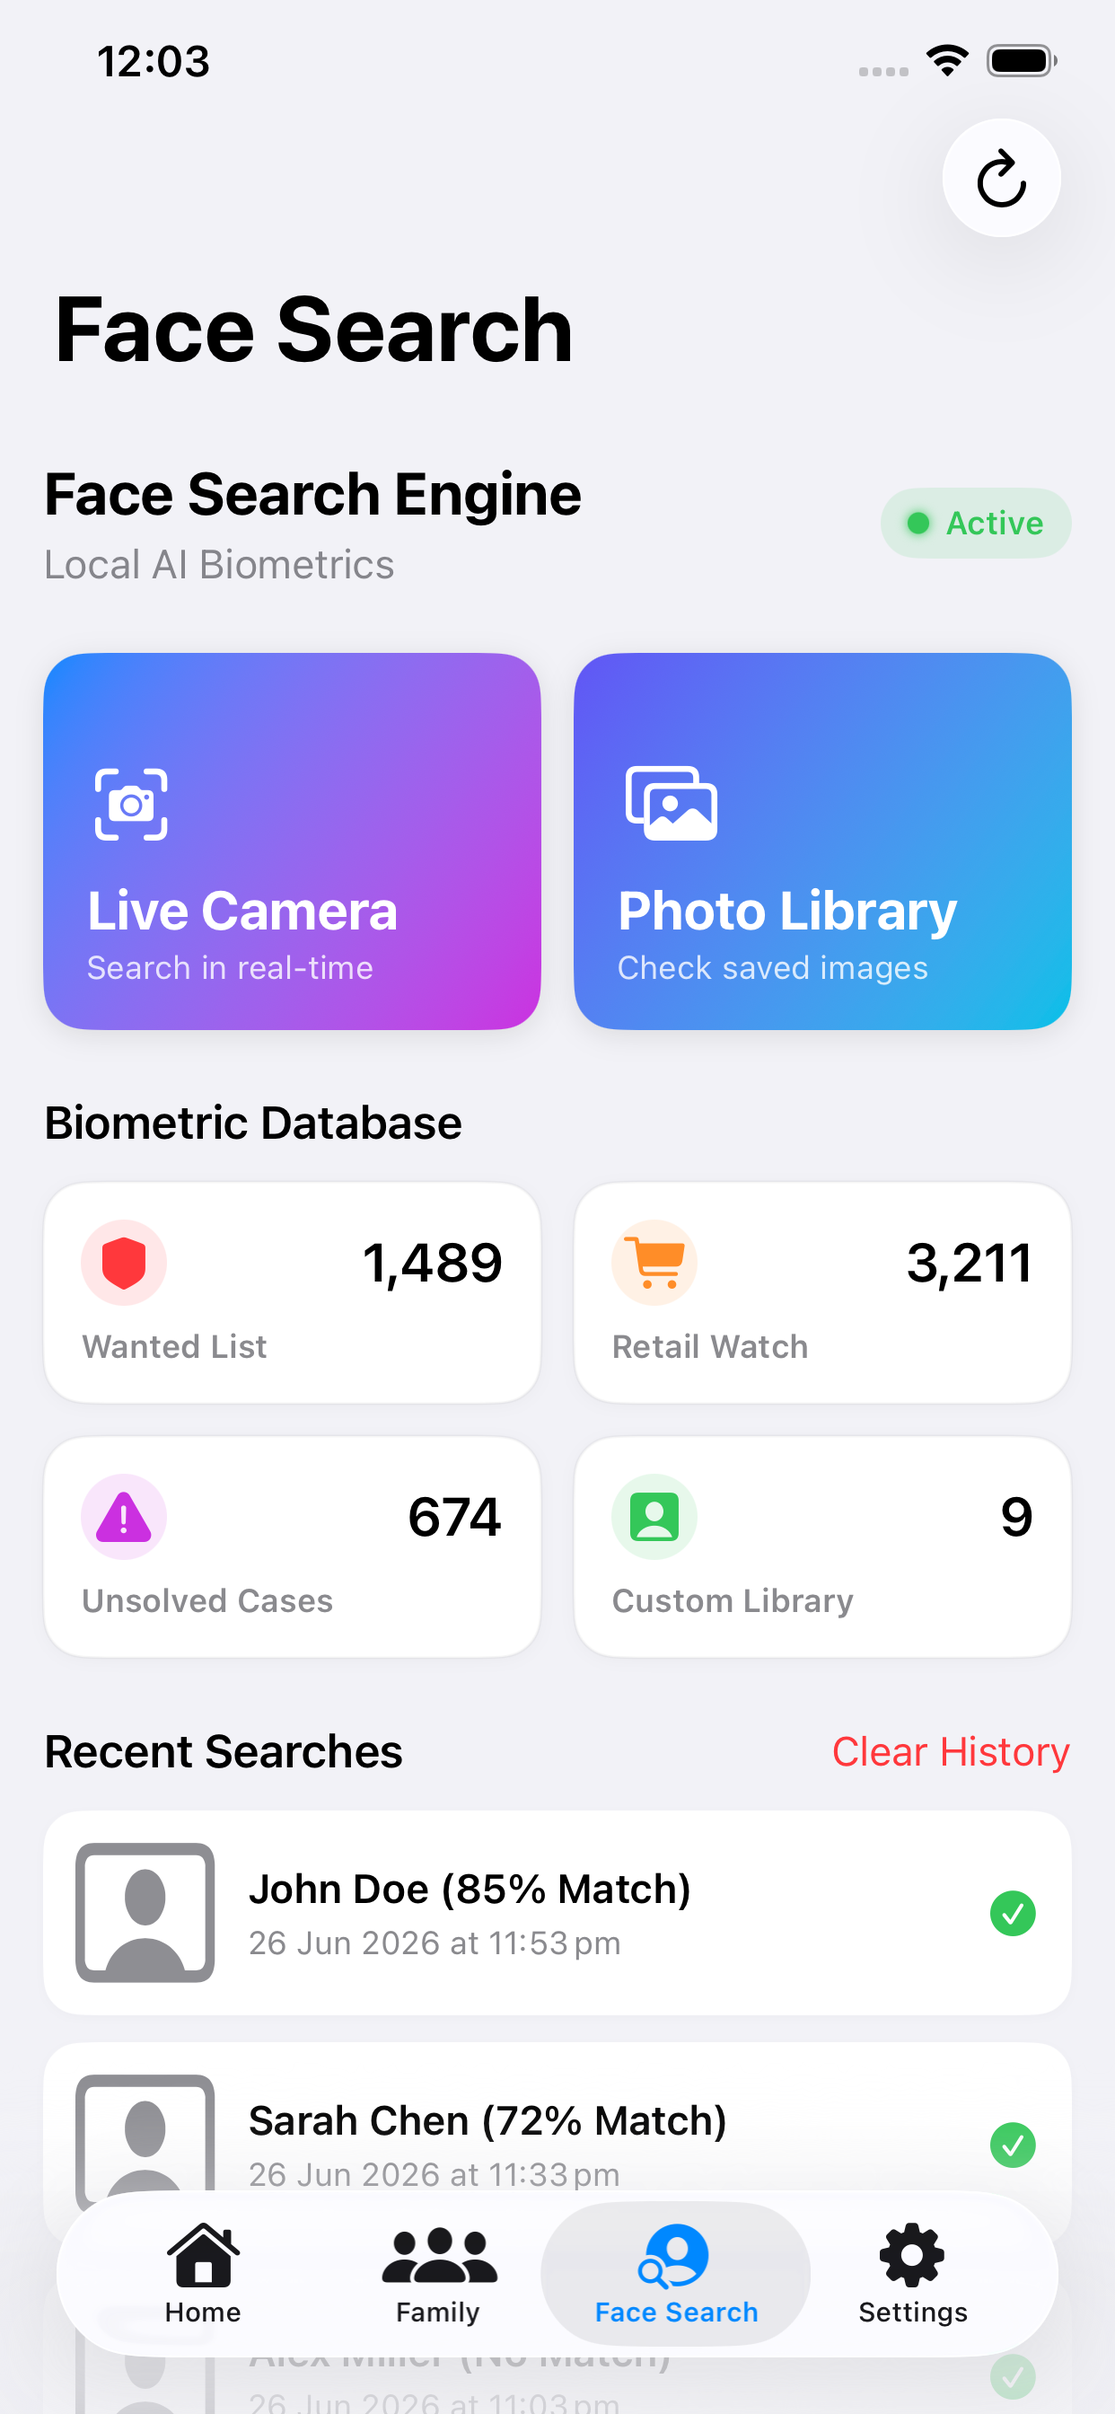
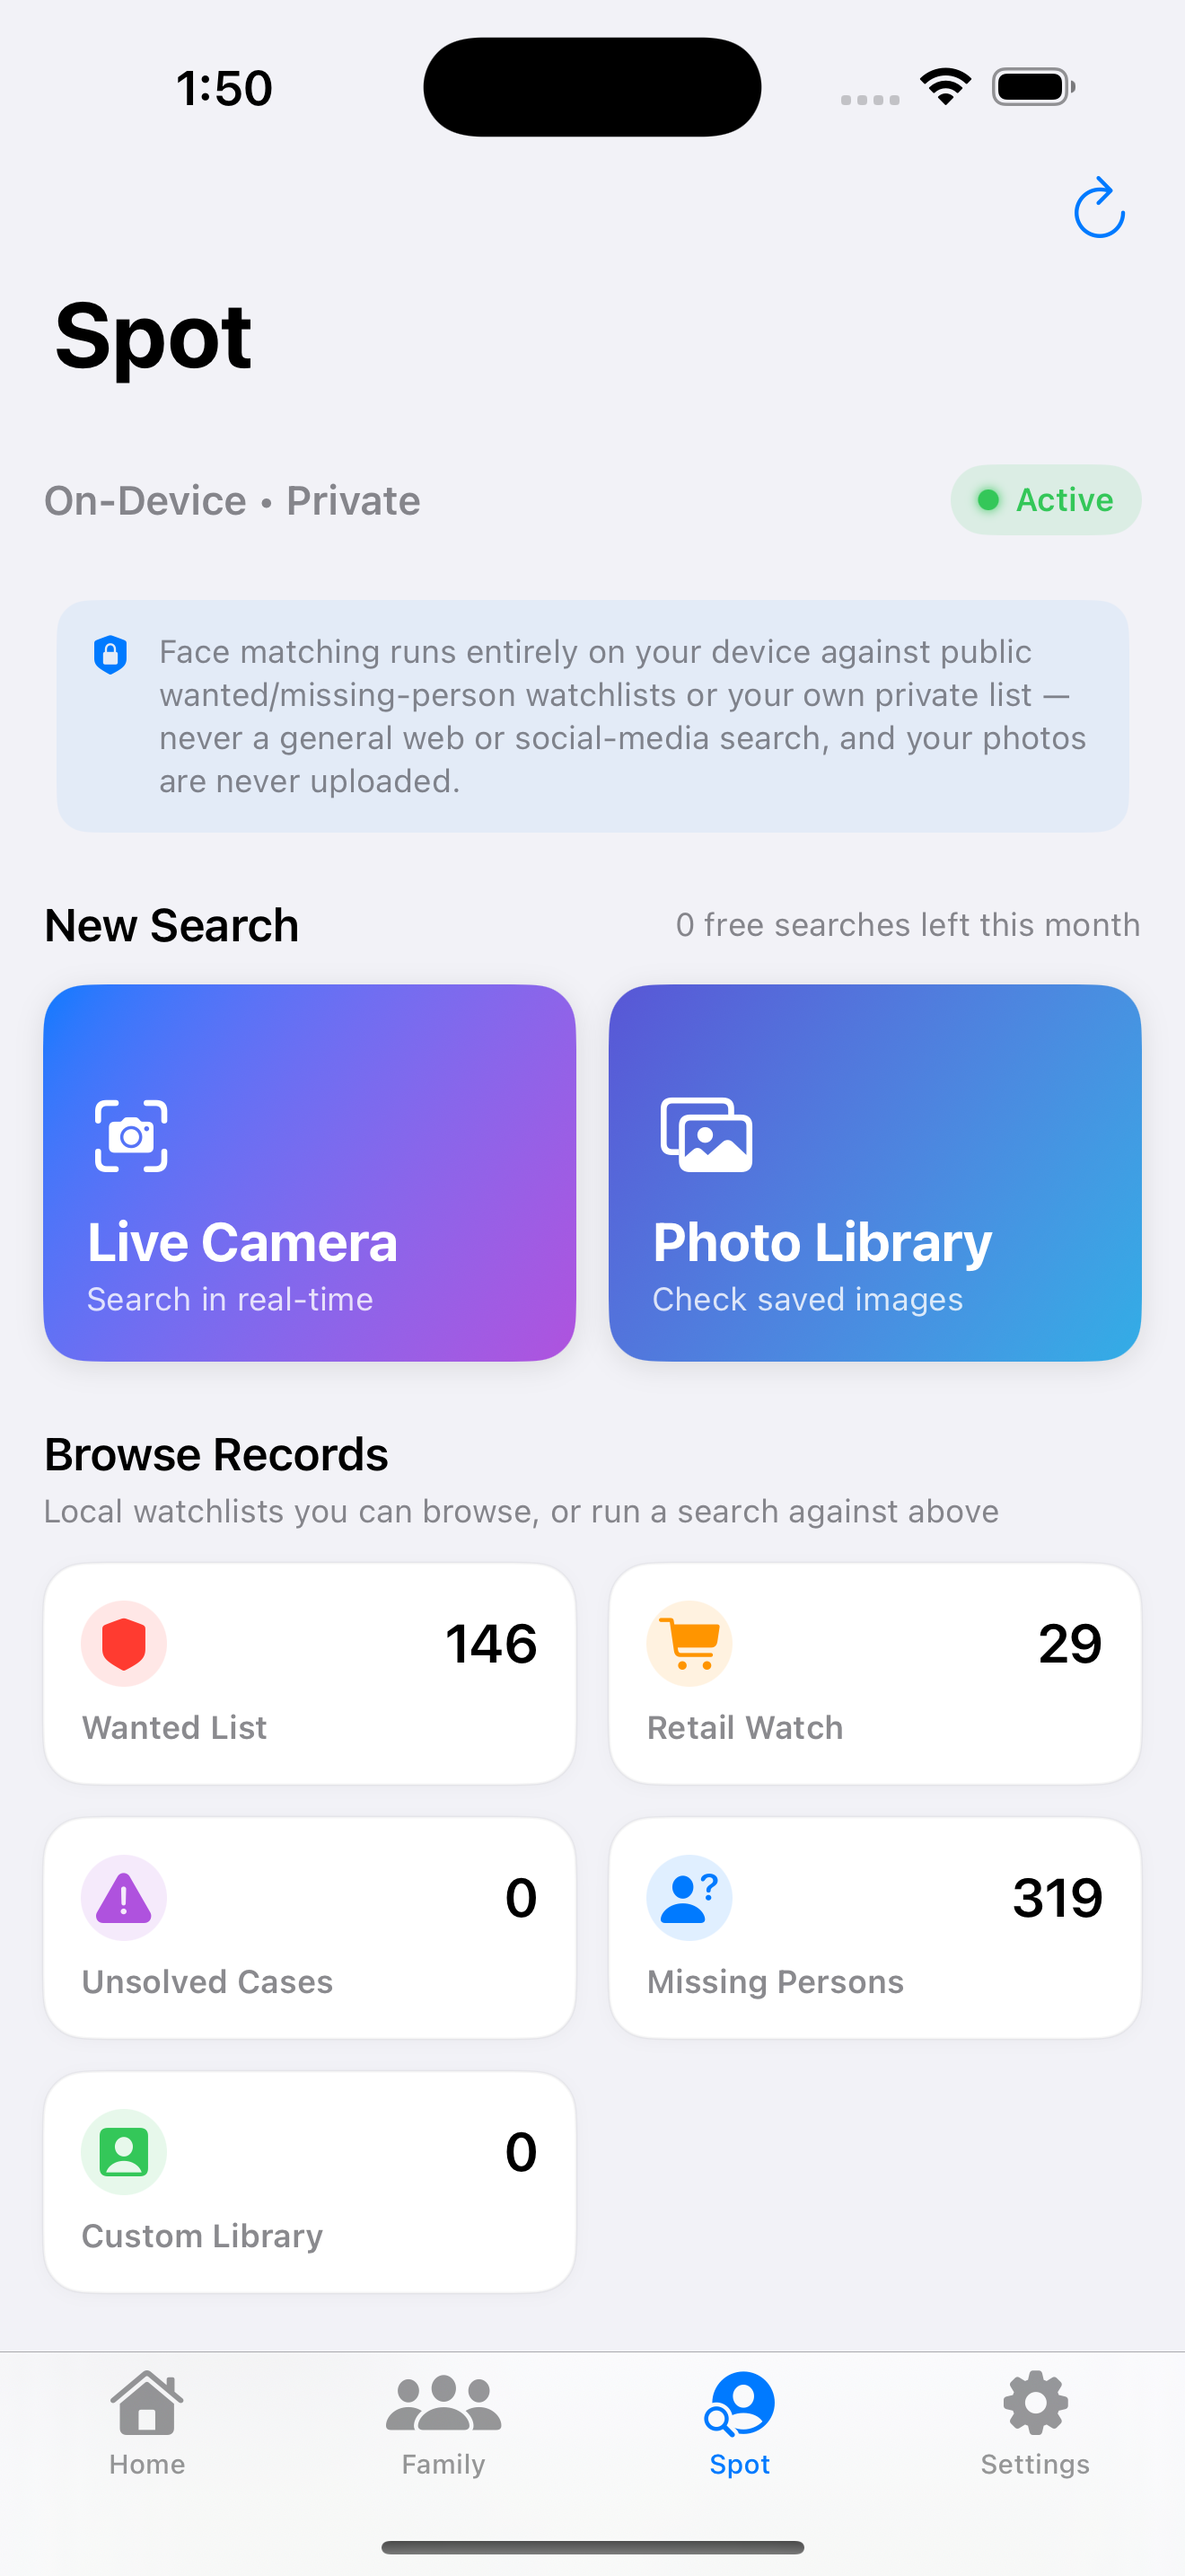
Replace static hero screenshot with a live-animated feed mock
The hero's phone mockup showed a static screenshot-home.png, which (a)
went stale the moment the in-app UI changed, as proven by it still
showing the pre-rename "Face Search" tab label, and (b) couldn't
demonstrate the app's actual real-time-alerts value proposition.

Replaces it with a hand-built HTML/CSS/JS recreation of the Home
screen's Live Activity feed: sample alert cards slide in with "Just
now", age through relative timestamps, and fall off the bottom of a
4-card window — all built to match the real app's light-mode card
design. A "Demo preview — sample alerts for illustration" caption
makes clear these are illustrative, not live incidents, given this is
a safety app where that distinction actually matters.

Also refreshes the two other stale screenshots used further down the
page (screenshot-home.png in the "Spot Flares" card, screenshot-
facesearch.png in "On-Device AI") with fresh captures from the current
build, so both now show "Spot" instead of "Face Search" too.

diff --git a/index.html b/index.html
@@ -303,6 +303,169 @@
             object-fit: cover;
         }
 
+        /* --- Live Activity hero mock: a hand-built recreation of the real Home screen,
+           rather than a screenshot, so it never goes stale when the app's UI changes and
+           can actually animate to show off the real-time alert feed. --- */
+        .lf-mock {
+            width: 100%;
+            height: 100%;
+            background: #F2F2F7;
+            color: #1C1C1E;
+            font-family: -apple-system, BlinkMacSystemFont, "Segoe UI", sans-serif;
+            display: flex;
+            flex-direction: column;
+            overflow: hidden;
+        }
+
+        .lf-topbar {
+            display: flex;
+            justify-content: space-between;
+            padding: 10px 20px 0;
+            font-size: 0.7rem;
+            font-weight: 600;
+            color: #1C1C1E;
+        }
+
+        .lf-dots { letter-spacing: 1px; font-size: 0.55rem; }
+
+        .lf-app-title {
+            font-size: 1.5rem;
+            font-weight: 800;
+            padding: 6px 18px 10px;
+            color: #000;
+        }
+
+        .lf-send-alert {
+            margin: 0 16px 14px;
+            padding: 14px 16px;
+            border-radius: 16px;
+            background: linear-gradient(135deg, #FF9A3D, #FF3B30);
+            display: flex;
+            align-items: center;
+            gap: 12px;
+            box-shadow: 0 8px 16px rgba(255, 59, 48, 0.25);
+        }
+
+        .lf-send-alert-icon { font-size: 1.3rem; }
+        .lf-send-alert-text { flex: 1; }
+        .lf-send-alert-title { color: #fff; font-weight: 700; font-size: 0.85rem; }
+        .lf-send-alert-sub { color: rgba(255,255,255,0.9); font-size: 0.65rem; }
+        .lf-chevron { color: rgba(255,255,255,0.8); font-size: 1.1rem; }
+
+        .lf-row {
+            display: flex;
+            justify-content: space-between;
+            align-items: baseline;
+            padding: 0 18px 8px;
+        }
+
+        .lf-section-title { font-size: 1rem; font-weight: 700; color: #000; }
+        .lf-see-all { font-size: 0.7rem; color: var(--primary); font-weight: 600; }
+
+        .lf-tabs {
+            display: flex;
+            gap: 6px;
+            padding: 0 16px 10px;
+        }
+
+        .lf-tab {
+            font-size: 0.62rem;
+            font-weight: 600;
+            padding: 5px 10px;
+            border-radius: 100px;
+            background: rgba(0,0,0,0.05);
+            color: #6B7280;
+        }
+
+        .lf-tab-active { background: #fff; color: #000; box-shadow: 0 1px 3px rgba(0,0,0,0.15); }
+
+        .lf-cards {
+            flex: 1;
+            padding: 0 14px;
+            display: flex;
+            flex-direction: column;
+            gap: 10px;
+            overflow: hidden;
+        }
+
+        .lf-card {
+            background: #fff;
+            border-radius: 14px;
+            padding: 12px 14px;
+            display: flex;
+            gap: 10px;
+            box-shadow: 0 1px 4px rgba(0,0,0,0.06);
+            opacity: 0;
+            transform: translateY(-14px);
+            transition: opacity 0.5s ease, transform 0.5s ease, max-height 0.4s ease, margin 0.4s ease, padding 0.4s ease;
+            max-height: 120px;
+            flex-shrink: 0;
+        }
+
+        .lf-card.lf-card-visible { opacity: 1; transform: translateY(0); }
+
+        .lf-card.lf-card-leaving {
+            opacity: 0;
+            max-height: 0;
+            padding-top: 0;
+            padding-bottom: 0;
+            margin: 0;
+            border-width: 0;
+        }
+
+        .lf-card-icon {
+            width: 32px;
+            height: 32px;
+            border-radius: 50%;
+            display: flex;
+            align-items: center;
+            justify-content: center;
+            font-size: 0.95rem;
+            flex-shrink: 0;
+        }
+
+        .lf-card-body { flex: 1; min-width: 0; }
+
+        .lf-card-top {
+            display: flex;
+            justify-content: space-between;
+            align-items: baseline;
+            gap: 8px;
+        }
+
+        .lf-card-title { font-size: 0.72rem; font-weight: 700; }
+        .lf-card-time { font-size: 0.6rem; color: #9CA3AF; white-space: nowrap; }
+
+        .lf-card-tag {
+            display: inline-block;
+            font-size: 0.55rem;
+            font-weight: 700;
+            padding: 2px 7px;
+            border-radius: 6px;
+            background: rgba(64, 114, 218, 0.1);
+            color: var(--primary);
+            margin: 3px 0 4px;
+        }
+
+        .lf-card-snippet {
+            font-size: 0.62rem;
+            color: #4B5563;
+            line-height: 1.4;
+            display: -webkit-box;
+            -webkit-line-clamp: 2;
+            -webkit-box-orient: vertical;
+            overflow: hidden;
+        }
+
+        .lf-card-likes { font-size: 0.6rem; color: var(--primary); font-weight: 600; margin-top: 4px; }
+
+        .lf-caption {
+            text-align: center;
+            font-size: 0.78rem;
+            color: var(--text-secondary);
+            margin-top: 20px;
+        }
+
         /* --- Trusted By --- */
         .trusted {
             text-align: center;
@@ -571,9 +734,34 @@
             <div class="hero-visual">
                 <div class="device">
                     <div class="device-screen">
-                        <img src="screenshot-home.png" alt="Spotter App Interface">
+                        <div class="lf-mock">
+                            <div class="lf-topbar">
+                                <span class="lf-time">9:41</span>
+                                <span class="lf-dots">●●●</span>
+                            </div>
+                            <div class="lf-app-title">Spotter</div>
+                            <div class="lf-send-alert">
+                                <div class="lf-send-alert-icon">⚠</div>
+                                <div class="lf-send-alert-text">
+                                    <div class="lf-send-alert-title">Send Alert</div>
+                                    <div class="lf-send-alert-sub">Notify your network instantly</div>
+                                </div>
+                                <div class="lf-chevron">›</div>
+                            </div>
+                            <div class="lf-row">
+                                <span class="lf-section-title">Live Activity</span>
+                                <span class="lf-see-all">See All</span>
+                            </div>
+                            <div class="lf-tabs">
+                                <span class="lf-tab lf-tab-active">All</span>
+                                <span class="lf-tab">Emergencies</span>
+                                <span class="lf-tab">Stolen Cars</span>
+                            </div>
+                            <div class="lf-cards" id="lfCards"></div>
+                        </div>
                     </div>
                 </div>
+                <p class="lf-caption">Demo preview — sample alerts for illustration</p>
             </div>
         </div>
     </section>
@@ -807,5 +995,75 @@
         </div>
     </footer>
 
+    <script>
+        // Drives the hero's "Live Activity" mock — a recreation of the real Home screen
+        // rather than a screenshot, so it can animate and never goes stale when the app's
+        // UI changes. Sample alerts only; see the "Demo preview" caption under the phone.
+        (function () {
+            var feed = document.getElementById('lfCards');
+            if (!feed) return;
+
+            var sampleAlerts = [
+                { icon: '🔥', bg: 'rgba(255,59,48,0.12)', title: 'Safety Alert: Fire', tag: 'Official Feed', snippet: 'Small kitchen fire reported, contained before crews arrived.', likes: 14 },
+                { icon: '🚗', bg: 'rgba(255,149,0,0.14)', title: 'Stolen Vehicle Alert', tag: 'Official Feed', snippet: 'White Toyota HiLux reported stolen from Fitzroy Street car park overnight.', likes: 9 },
+                { icon: '👁', bg: 'rgba(64,114,218,0.12)', title: 'Suspicious Activity', tag: 'Community', snippet: 'Unknown male checking car door handles along Church Street, moved on before police arrived.', likes: 6 },
+                { icon: '⚠', bg: 'rgba(255,59,48,0.12)', title: 'Safety Alert: Bushfire', tag: 'Official Feed', snippet: 'Oxford Street | Status: UNCONTROLLED. Crews responding.', likes: 12 },
+                { icon: '🚗', bg: 'rgba(255,149,0,0.14)', title: 'Stolen Vehicle Alert', tag: 'Official Feed', snippet: 'Vehicle reported stolen from Richmond car park overnight.', likes: 15 },
+                { icon: '👁', bg: 'rgba(64,114,218,0.12)', title: 'Suspicious Activity', tag: 'Community', snippet: 'Group loitering near the Collins Street car park after hours.', likes: 4 }
+            ];
+
+            var timeStages = ['Just now', '1 min ago', '2 min ago', '4 min ago', '7 min ago', '12 min ago'];
+            var maxVisible = 4;
+            var nextIndex = 0;
+            var liveCards = []; // { el, stage }
+
+            function renderCard(alert) {
+                var card = document.createElement('div');
+                card.className = 'lf-card';
+                card.innerHTML =
+                    '<div class="lf-card-icon" style="background:' + alert.bg + '">' + alert.icon + '</div>' +
+                    '<div class="lf-card-body">' +
+                        '<div class="lf-card-top">' +
+                            '<span class="lf-card-title">' + alert.title + '</span>' +
+                            '<span class="lf-card-time">Just now</span>' +
+                        '</div>' +
+                        '<span class="lf-card-tag">' + alert.tag + '</span>' +
+                        '<div class="lf-card-snippet">' + alert.snippet + '</div>' +
+                        '<div class="lf-card-likes">👍 ' + alert.likes + '</div>' +
+                    '</div>';
+                return card;
+            }
+
+            function tick() {
+                // Age existing cards' relative timestamps.
+                liveCards.forEach(function (entry) {
+                    if (entry.stage < timeStages.length - 1) entry.stage++;
+                    var timeEl = entry.el.querySelector('.lf-card-time');
+                    if (timeEl) timeEl.textContent = timeStages[entry.stage];
+                });
+
+                // Add the next sample alert.
+                var alert = sampleAlerts[nextIndex % sampleAlerts.length];
+                nextIndex++;
+                var card = renderCard(alert);
+                feed.insertBefore(card, feed.firstChild);
+                liveCards.unshift({ el: card, stage: 0 });
+                requestAnimationFrame(function () {
+                    requestAnimationFrame(function () { card.classList.add('lf-card-visible'); });
+                });
+
+                // Drop anything past the visible cap, with a fade/collapse out.
+                while (liveCards.length > maxVisible) {
+                    var oldest = liveCards.pop();
+                    oldest.el.classList.add('lf-card-leaving');
+                    oldest.el.classList.remove('lf-card-visible');
+                    setTimeout(function (el) { return function () { el.remove(); }; }(oldest.el), 450);
+                }
+            }
+
+            tick();
+            setInterval(tick, 3600);
+        })();
+    </script>
 </body>
 </html>
